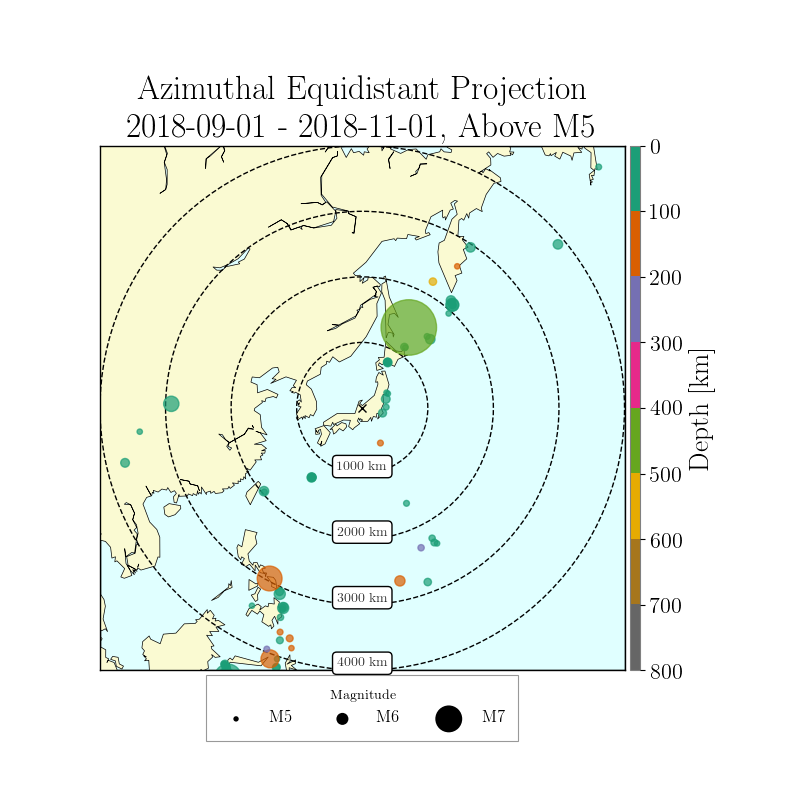
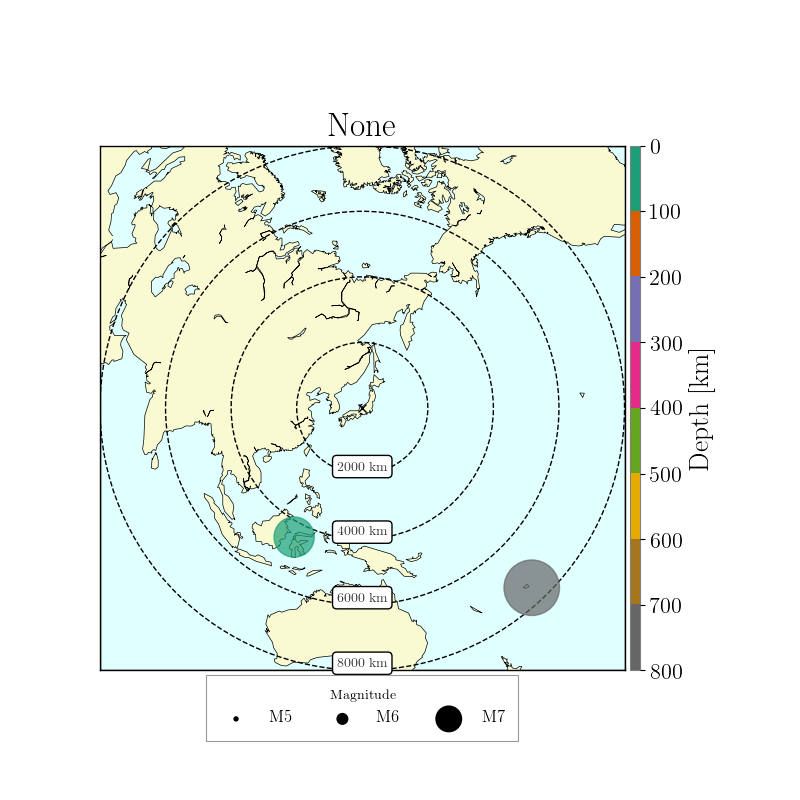
Back

diff --git a/eqWarning/plot.py b/eqWarning/plot.py
@@ -17,14 +17,15 @@ if StrictVersion(_basemap_version) <= StrictVersion('1.1.0'):
 
 
 from event import get_arrivals    
-    
-def plot_eqmap(events,lat_0=36.43,lon_0=137.31,radius=None,title='None',**kwargs):
+
+
+def plot_eqmap(catalog,lat_0=36.43,lon_0=137.31,radius=None,title='None',**kwargs):
     '''
 
     Parameters
     ----------
-    events : `obspy.core.event.catalog.Catalog'
-        events.
+    catalog : `obspy.core.event.catalog.Catalog'
+        catalog.
     
 
     lat_0 : float, optional
@@ -39,12 +40,13 @@ def plot_eqmap(events,lat_0=36.43,lon_0=137.31,radius=None,title='None',**kwargs
     
     
     '''
-    # get data from events
-    origin = events[0].origins[0]
-    eq_lat = [event.origins[0].latitude for event in events]
-    eq_lon = [event.origins[0].longitude for event in events]
-    eq_depth = asarray([event.origins[0].depth for event in events])/1e3 # km
-    eq_mag = asarray([event.magnitudes[0].mag for event in events])
+    # get data from catalog
+    #origin = catalog[0].origins[0]
+    eq_lat = [event.origins[0].latitude for event in catalog]
+    eq_lon = [event.origins[0].longitude for event in catalog]
+    eq_depth = asarray([event.origins[0].depth for event in catalog])/1e3 # km
+    eq_mag = asarray([event.magnitudes[0].mag for event in catalog])
+    #print len(eq_lat),len(eq_lon),len(eq_depth),len(eq_mag)
     
     # setup figure, axes
     fig,ax1 = plt.subplots(1,1,figsize=(8,8))
@@ -73,7 +75,7 @@ def plot_eqmap(events,lat_0=36.43,lon_0=137.31,radius=None,title='None',**kwargs
 
     # plot earthquake event
     xpt_eq, ypt_eq = bmap(eq_lon,eq_lat)
-    scattersize = lambda mag: 5**(mag-5.0)*15
+    scattersize = lambda mag: 5.0**(mag-5.0)*15.0
     sc = ax1.scatter(xpt_eq, ypt_eq, s=scattersize(eq_mag), c=eq_depth, zorder=2,
                      alpha=0.7, cmap='Dark2')
 
@@ -152,6 +154,7 @@ def main_plot_eqmap(start_str,end_str,**kwargs):
     '''
     from event import get_catalog
     catalog = get_catalog(start_str,end_str,**kwargs)
+    #print catalog
     lat_kamioka=36.43
     lon_kamioka=137.31
     title = 'Azimuthal Equidistant Projection \n'\

diff --git a/eqWarning/__main__.py b/eqWarning/__main__.py
@@ -1,4 +1,3 @@
-#import numpy as np
 from event import (get_catalog, get_eventids, get_eventtimes,
                    get_eventdepths, get_eventmags,
                    calc_distance_from_eq, get_arrivals, get_eventgps,
@@ -8,12 +7,12 @@ from plot import (main_plot_eqmap, plot_arrivals, plot_eqmap)
 from arrival import get_first_arrival_times
 
 import numpy as np
-import pandas as pd
-   
-  
+#import pandas as pd
+
+
 def main():
     kwargs = {}
-    kwargs['minmagnitude'] = 5
+    kwargs['minmagnitude'] = 7.5
     #kwargs['minlatitude'] = 0
     #kwargs['maxlatitude'] = 45
     #kwargs['minlongitude'] = 120
@@ -21,8 +20,12 @@ def main():
     #kwargs['maxmagnitude'] = 8    
     start_str = '2018-09-01'
     end_str = '2018-11-01'
-    #main_plot_eqmap(start_str,end_str,**kwargs)
-    #df = make_eventcsv(start_str,end_str,to_csv=True,phase_list=['P'],**kwargs)
+    
+    from event import get_catalog
+    catalog = get_catalog(start_str,end_str,**kwargs)
+    
+    plot_eqmap(catalog,lat_0=36.43,lon_0=137.31,radius=8000e3,title='None')
+    df = make_eventcsv(catalog,to_csv=True,phase_list=['P'],**kwargs)
     #print df
     #plot_arrivals(eventid=10944928)
 
@@ -49,13 +52,13 @@ def hoge(gps):
     plot.savefig('{0}.png'.format(gps))
     plot.close()
 
-
-    
-if __name__=='__main__':
-    #main()
+def main_hoge():
     df = pd.read_csv('Sep01-Nov01_M6_pwave.csv')
     #hoge = df.loc[:,['EventTime[UTC]','PwaveFirstArrivalGPS','EventMagnitude']]
     pwave_gps = df['PwaveFirstArrivalGPS']
     for gps in pwave_gps.__iter__():
         print gps
-        hoge(gps)
+        hoge(gps)    
+    
+if __name__=='__main__':
+    main()   

diff --git a/eqWarning/main.py b/eqWarning/main.py
@@ -8,7 +8,7 @@ import numpy as np
 
 
 
-def make_eventcsv(start_str,end_str,**kwargs):
+def make_eventcsv(catalog,**kwargs):
     '''
 
     Parameters
@@ -25,7 +25,7 @@ def make_eventcsv(start_str,end_str,**kwargs):
     phase_list = kwargs.pop('phase_list','P')
     
     # get catalog
-    catalog = get_catalog(start_str,end_str,**kwargs)
+    #catalog = get_catalog(start_str,end_str,**kwargs)
     
     # get some information from catalog
     eventids = get_eventids(catalog)

diff --git a/eqWarning/event.py b/eqWarning/event.py
@@ -39,7 +39,7 @@ def get_catalog(starttime,endtime,base_url='IRIS',_catalog='NEIC PDE',**kwargs):
     '''
     client = Client(base_url)
     starttime = UTCDateTime(starttime)
-    endtime = UTCDateTime(endtime)       
+    endtime = UTCDateTime(endtime)
     catalog = client.get_events(starttime=starttime,
                                 endtime=endtime,
                                 catalog=_catalog,**kwargs)
